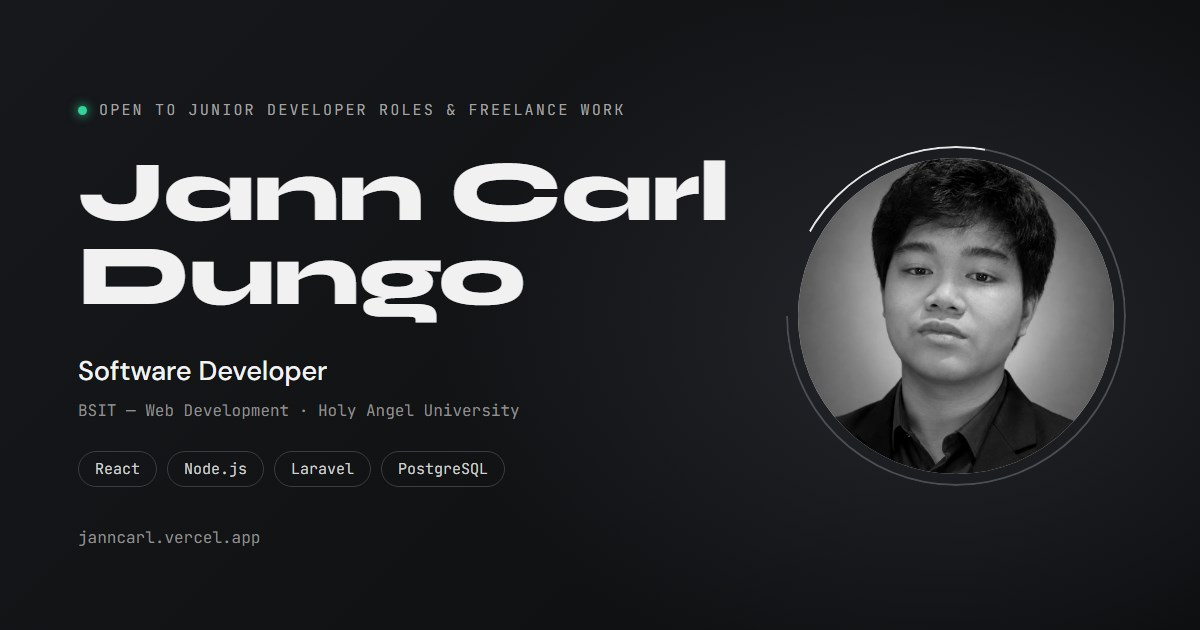
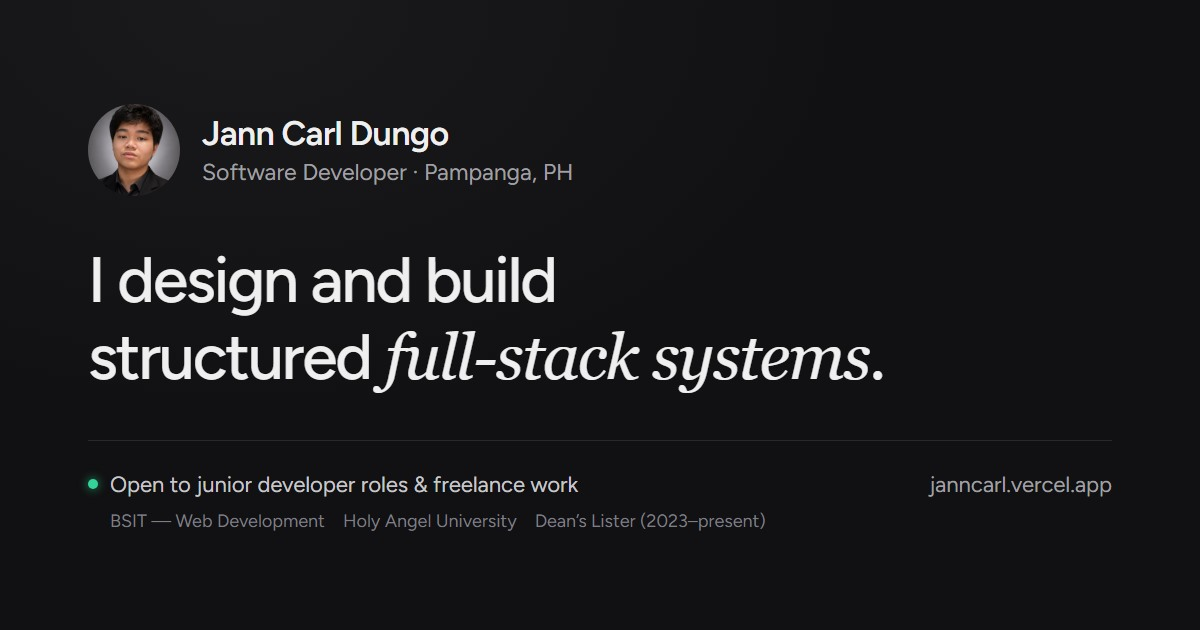
Redesign the link-preview image to match the current site
Figtree on the #111112 ground, the profile row, the home-page heading
with its Georgia italic accent, and the availability line, replacing
the old Syne/JetBrains Mono banner from the previous design.

diff --git a/docs/og/og.html b/docs/og/og.html
@@ -2,65 +2,49 @@
 <html>
 <head>
 <meta charset="utf-8">
-<link href="https://fonts.googleapis.com/css2?family=DM+Sans:wght@500&family=JetBrains+Mono:wght@400&family=Syne:wght@800&display=block" rel="stylesheet">
+<!-- Link-preview image (1200x630). Matches the home page: Figtree, the
+     #111112 ground, Georgia italic accent, the profile row and the green
+     availability line. Screenshot at 1200x630 to regenerate. -->
+<link href="https://fonts.googleapis.com/css2?family=Figtree:wght@400;500;600&display=block" rel="stylesheet">
 <style>
   * { margin: 0; padding: 0; box-sizing: border-box; }
   html, body { width: 1200px; height: 630px; overflow: hidden; }
   body {
     background:
-      radial-gradient(ellipse 700px 520px at 930px 330px, #23262b 0%, rgba(35,38,43,0) 70%),
-      linear-gradient(135deg, #16181b 0%, #111214 55%, #0d0e10 100%);
-    color: #f2f2f2;
-    position: relative;
+      radial-gradient(ellipse 900px 600px at 20% 0%, #1a1a1c 0%, rgba(26,26,28,0) 70%),
+      #111112;
+    color: #efefef;
+    font-family: "Figtree", sans-serif;
+    padding: 104px 88px 0;
   }
-  .left { position: absolute; left: 78px; top: 100px; width: 680px; }
-  .status {
-    font-family: "JetBrains Mono", monospace; font-size: 15px; letter-spacing: 2.2px;
-    color: #a3a3a3; text-transform: uppercase; display: flex; align-items: center; gap: 12px;
-  }
-  .dot { width: 9px; height: 9px; border-radius: 50%; background: #34d399; box-shadow: 0 0 10px 2px rgba(52,211,153,.55); }
-  h1 {
-    font-family: "Syne", sans-serif; font-weight: 800; font-size: 86px; line-height: 0.98; white-space: nowrap;
-    letter-spacing: -1px; margin-top: 30px; color: #f1f1f1;
-  }
-  .role { font-family: "DM Sans", sans-serif; font-weight: 500; font-size: 27px; margin-top: 34px; color: #f2f2f2; }
-  .school { font-family: "JetBrains Mono", monospace; font-size: 16px; color: #8f8f8f; margin-top: 12px; }
-  .chips { display: flex; gap: 10px; margin-top: 30px; }
-  .chip {
-    font-family: "JetBrains Mono", monospace; font-size: 15px; color: #cfcfcf;
-    border: 1px solid #3a3d42; border-radius: 999px; padding: 7px 16px;
-  }
-  .url { font-family: "JetBrains Mono", monospace; font-size: 16px; color: #8f8f8f; margin-top: 40px; }
+  .profile { display: flex; align-items: center; gap: 22px; }
+  .profile img { width: 92px; height: 92px; border-radius: 50%; object-fit: cover; }
+  .name { font-size: 34px; font-weight: 600; letter-spacing: -0.6px; line-height: 1.15; }
+  .role { font-size: 23px; color: #a0a0a5; margin-top: 4px; }
 
-  .photo-wrap { position: absolute; left: 786px; top: 146px; width: 340px; height: 340px; }
-  .ring {
-    position: absolute; inset: 0; border-radius: 50%;
-    border: 2px solid #4a4d52;
-    -webkit-mask: conic-gradient(from 300deg, #000 0 330deg, transparent 330deg);
-  }
-  .ring-hi {
-    position: absolute; inset: 0; border-radius: 50%; border: 2px solid #e6e6e6;
-    -webkit-mask: conic-gradient(from 300deg, #000 0 70deg, transparent 70deg);
-  }
-  .photo {
-    position: absolute; inset: 12px; border-radius: 50%; overflow: hidden;
-    background: #cfcfcf;
-  }
-  .photo img { width: 100%; height: 100%; object-fit: cover; filter: grayscale(1) contrast(1.04); }
+  h1 { font-size: 64px; font-weight: 500; line-height: 1.2; letter-spacing: -2px; margin-top: 46px; }
+  h1 em { font-family: Georgia, serif; font-weight: 400; letter-spacing: -1.4px; }
+
+  .rule { height: 1px; background: #29292c; margin-top: 44px; }
+  .foot { display: flex; justify-content: space-between; align-items: center; margin-top: 30px; }
+  .status { display: flex; align-items: center; gap: 12px; font-size: 22px; color: #c8c8cc; }
+  .dot { width: 10px; height: 10px; border-radius: 50%; background: #34d399; box-shadow: 0 0 10px 1px rgba(52,211,153,.5); }
+  .url { font-size: 22px; color: #a0a0a5; }
+  .edu { font-size: 18px; color: #7d7d82; margin-top: 12px; padding-left: 22px; }
+  .edu span + span::before { content: "\2003"; }
 </style>
 </head>
 <body>
-  <div class="left">
+  <div class="profile">
+    <img src="../../public/images/profile.jpg" alt="">
+    <div><div class="name">Jann Carl Dungo</div><div class="role">Software Developer · Pampanga, PH</div></div>
+  </div>
+  <h1>I design and build<br>structured <em>full-stack systems.</em></h1>
+  <div class="rule"></div>
+  <div class="foot">
     <div class="status"><span class="dot"></span>Open to junior developer roles &amp; freelance work</div>
-    <h1>Jann Carl<br>Dungo</h1>
-    <div class="role">Software Developer</div>
-    <div class="school">BSIT — Web Development · Holy Angel University</div>
-    <div class="chips"><span class="chip">React</span><span class="chip">Node.js</span><span class="chip">Laravel</span><span class="chip">PostgreSQL</span></div>
     <div class="url">janncarl.vercel.app</div>
   </div>
-  <div class="photo-wrap">
-    <div class="ring"></div><div class="ring-hi"></div>
-    <div class="photo"><img src="../../public/images/profile.jpg" alt=""></div>
-  </div>
+  <div class="edu"><span>BSIT — Web Development</span><span>Holy Angel University</span><span>Dean’s Lister (2023–present)</span></div>
 </body>
 </html>
